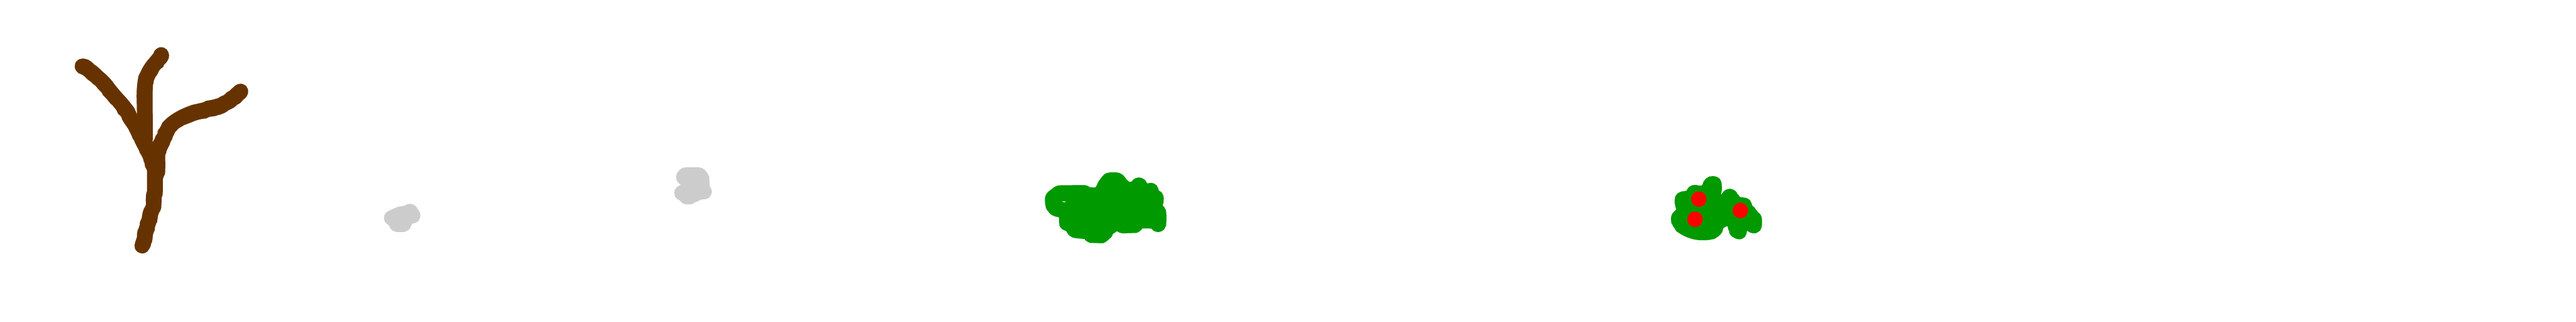
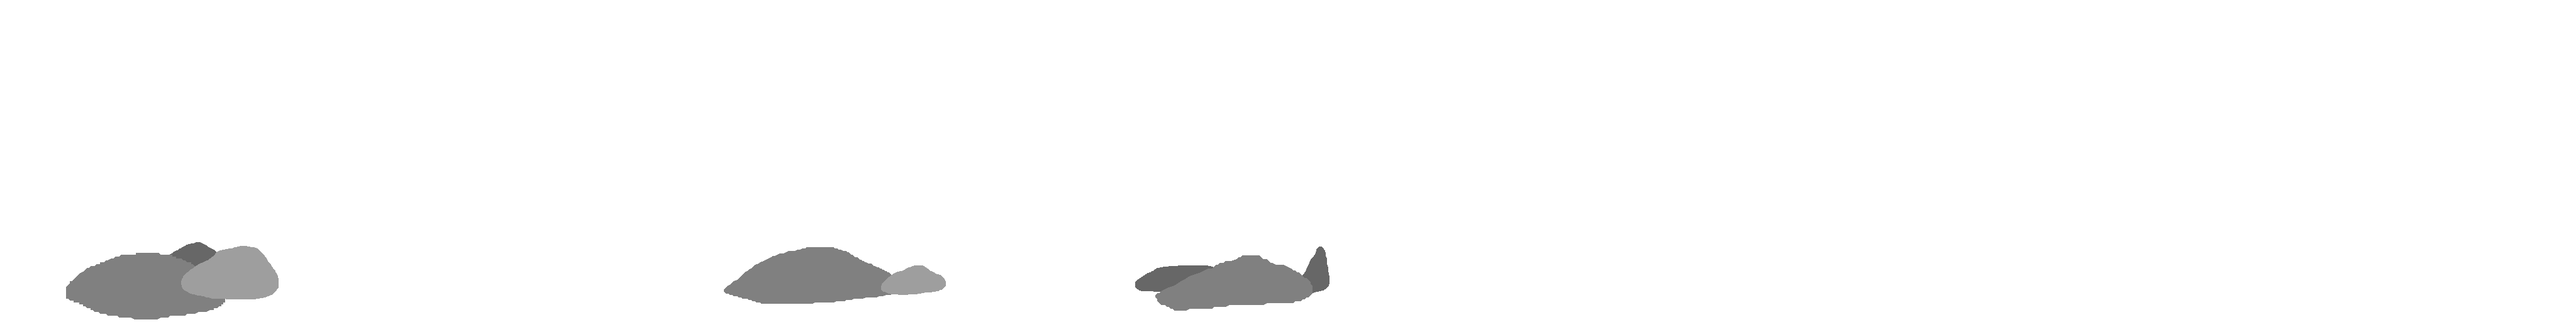
bgfull changed

diff --git a/vgd126_engine/js/gamestates/level1.js b/vgd126_engine/js/gamestates/level1.js
@@ -75,7 +75,7 @@ var bg = new GameObject({ x: level.x, y: level.y, width: canvas.width * 4, heigh
    ===================================================================== */
 
 //BGFULL
-//bg.img.src = `images/bgfull.png`;
+bg.img.src = `images/bgfull.png`;
 
 // --- Projectiles (pooled) ---
 var bullets = [];
